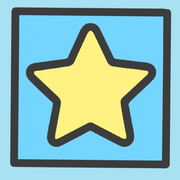
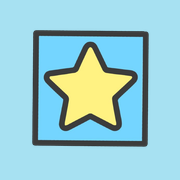
fix: mobile layout and button hierarchy
- keep the session drawer closed by default on mobile
- pad the pwa icons so the os mask does not crop the logo
- align header content and buttons to a single container edge
- make new character full width on mobile
- style log in as a secondary button so the primary action stands out
- remove the kaomoji from the header greeting

diff --git a/components/chat/ChatWindow.tsx b/components/chat/ChatWindow.tsx
@@ -3,7 +3,7 @@
 import { useEffect, useRef, useState } from "react";
 import MessageBubble from "@/components/chat/MessageBubble";
 import ChatInput from "@/components/chat/ChatInput";
-import SessionSidebar from "@/components/SessionSidebar";
+import SessionDrawer, { MOBILE_QUERY } from "@/components/SessionDrawer";
 import LoadingBar from "@/components/LoadingBar";
 import { deleteSession, getSessionsForCharacter, saveSession } from "@/lib/storage";
 import { isOfflineError, OFFLINE_MESSAGE } from "@/lib/network";
@@ -103,7 +103,15 @@ export default function ChatWindow({ character }: ChatWindowProps) {
   const [retryToken, setRetryToken] = useState(0);
   const [isLoading, setIsLoading] = useState(false);
   const [error, setError] = useState<string | null>(null);
-  const [sidebarOpen, setSidebarOpen] = useState(true);
+  // Closed by default on mobile (an overlay covering the chat is unwelcome
+  // on first load), open by default on desktop (its usual, permanent spot).
+  // ChatWindow only ever mounts client-side (its parent renders null until
+  // the character loads via an effect), so reading matchMedia here can't
+  // cause a hydration mismatch.
+  const [sidebarOpen, setSidebarOpen] = useState(() => {
+    if (typeof window === "undefined") return true;
+    return !window.matchMedia(MOBILE_QUERY).matches;
+  });
   const bottomRef = useRef<HTMLDivElement>(null);
   const abortControllerRef = useRef<AbortController | null>(null);
 
@@ -318,24 +326,22 @@ export default function ChatWindow({ character }: ChatWindowProps) {
 
   return (
     <div className="flex h-full min-h-0 flex-1">
-      {sidebarOpen && (
-        <div className="w-64 shrink-0">
-          <SessionSidebar
-            items={sortedSessions}
-            activeId={activeSessionId}
-            newLabel="New chat"
-            emptyLabel="No chats yet."
-            newDisabled={isNewSessionDisabled}
-            accent="star"
-            onSelect={handleSelectSession}
-            onNew={handleNewSession}
-            onRename={handleRenameSession}
-            onDelete={handleDeleteSession}
-          />
-        </div>
-      )}
+      <SessionDrawer
+        open={sidebarOpen}
+        onClose={() => setSidebarOpen(false)}
+        items={sortedSessions}
+        activeId={activeSessionId}
+        newLabel="New chat"
+        emptyLabel="No chats yet."
+        newDisabled={isNewSessionDisabled}
+        accent="star"
+        onSelect={handleSelectSession}
+        onNew={handleNewSession}
+        onRename={handleRenameSession}
+        onDelete={handleDeleteSession}
+      />
 
-      <div className="flex h-full min-h-0 flex-1 flex-col">
+      <div className="flex h-full min-h-0 min-w-0 flex-1 flex-col">
         <div className="flex items-center border-b border-line px-3 py-2">
           <button
             type="button"
@@ -352,7 +358,7 @@ export default function ChatWindow({ character }: ChatWindowProps) {
           </p>
         )}
 
-        <div className="flex-1 overflow-y-auto px-4 py-4">
+        <div className="min-h-0 flex-1 overflow-y-auto px-4 py-4">
           <div className="mx-auto flex w-full max-w-2xl flex-col gap-3">
             {messages.length === 0 && (
               <p className="text-center text-base text-muted">

diff --git a/components/study/StudyPanel.tsx b/components/study/StudyPanel.tsx
@@ -5,7 +5,7 @@ import Markdown from "react-markdown";
 import NotesUpload from "@/components/study/NotesUpload";
 import StudyToolbar from "@/components/study/StudyToolbar";
 import QuizView from "@/components/study/QuizView";
-import SessionSidebar from "@/components/SessionSidebar";
+import SessionDrawer, { MOBILE_QUERY } from "@/components/SessionDrawer";
 import LoadingBar from "@/components/LoadingBar";
 import { markdownComponents } from "@/components/MarkdownContent";
 import {
@@ -126,7 +126,15 @@ export default function StudyPanel({ character }: StudyPanelProps) {
   const [retryToken, setRetryToken] = useState(0);
   const [isLoading, setIsLoading] = useState(false);
   const [error, setError] = useState<string | null>(null);
-  const [sidebarOpen, setSidebarOpen] = useState(true);
+  // Closed by default on mobile (an overlay covering the panel is unwelcome
+  // on first load), open by default on desktop (its usual, permanent spot).
+  // StudyPanel only ever mounts client-side (its parent renders null until
+  // the character loads via an effect), so reading matchMedia here can't
+  // cause a hydration mismatch.
+  const [sidebarOpen, setSidebarOpen] = useState(() => {
+    if (typeof window === "undefined") return true;
+    return !window.matchMedia(MOBILE_QUERY).matches;
+  });
   const notesSaveTimeout = useRef<ReturnType<typeof setTimeout> | null>(null);
   const abortControllerRef = useRef<AbortController | null>(null);
   // Per-session save queue. Two saves to the same session (e.g. the immediate
@@ -446,24 +454,22 @@ export default function StudyPanel({ character }: StudyPanelProps) {
 
   return (
     <div className="flex h-full min-h-0 flex-1">
-      {sidebarOpen && (
-        <div className="w-64 shrink-0">
-          <SessionSidebar
-            items={sortedSessions}
-            activeId={activeSessionId}
-            newLabel="New study"
-            emptyLabel="No study sessions yet."
-            newDisabled={isNewSessionDisabled}
-            accent="sky"
-            onSelect={handleSelectSession}
-            onNew={handleNewSession}
-            onRename={handleRenameSession}
-            onDelete={handleDeleteSession}
-          />
-        </div>
-      )}
+      <SessionDrawer
+        open={sidebarOpen}
+        onClose={() => setSidebarOpen(false)}
+        items={sortedSessions}
+        activeId={activeSessionId}
+        newLabel="New study"
+        emptyLabel="No study sessions yet."
+        newDisabled={isNewSessionDisabled}
+        accent="sky"
+        onSelect={handleSelectSession}
+        onNew={handleNewSession}
+        onRename={handleRenameSession}
+        onDelete={handleDeleteSession}
+      />
 
-      <div className="flex h-full min-h-0 flex-1 flex-col">
+      <div className="flex h-full min-h-0 min-w-0 flex-1 flex-col">
         <div className="flex items-center border-b border-line px-3 py-2">
           <button
             type="button"
@@ -480,7 +486,7 @@ export default function StudyPanel({ character }: StudyPanelProps) {
           </p>
         )}
 
-        <div className="flex-1 overflow-y-auto px-4 py-8">
+        <div className="min-h-0 flex-1 overflow-y-auto px-4 py-8 pb-[calc(2rem+env(safe-area-inset-bottom))]">
           <div className="mx-auto flex w-full max-w-2xl flex-col gap-6">
             <NotesUpload
               sessionId={activeSessionId}

diff --git a/components/SessionDrawer.tsx b/components/SessionDrawer.tsx
@@ -1,0 +1,34 @@
+"use client";
+
+import SessionSidebar, { type SessionSidebarProps } from "@/components/SessionSidebar";
+
+interface SessionDrawerProps extends SessionSidebarProps {
+  open: boolean;
+  onClose: () => void;
+}
+
+export const MOBILE_QUERY = "(max-width: 639px)";
+
+// Below the sm breakpoint there isn't room for the sidebar to sit alongside
+// the chat/study column without squeezing it off-screen, so it renders as a
+// fixed overlay with a backdrop instead — same component, same props, just a
+// different container. From sm up it's the same static column it always was.
+export default function SessionDrawer({ open, onClose, onSelect, ...sidebarProps }: SessionDrawerProps) {
+  if (!open) return null;
+
+  function handleSelect(id: string) {
+    onSelect(id);
+    if (typeof window !== "undefined" && window.matchMedia(MOBILE_QUERY).matches) {
+      onClose();
+    }
+  }
+
+  return (
+    <>
+      <div className="fixed inset-0 z-30 bg-ink/40 sm:hidden" onClick={onClose} aria-hidden="true" />
+      <div className="fixed inset-y-0 left-0 z-40 w-72 max-w-[80vw] pt-[env(safe-area-inset-top)] pb-[env(safe-area-inset-bottom)] sm:static sm:z-auto sm:w-64 sm:max-w-none sm:shrink-0 sm:pt-0 sm:pb-0">
+        <SessionSidebar {...sidebarProps} onSelect={handleSelect} />
+      </div>
+    </>
+  );
+}

diff --git a/app/page.tsx b/app/page.tsx
@@ -122,16 +122,16 @@ export default function Home() {
           </h1>
           <p className="mt-2 text-lg text-muted">Your character, your story</p>
         </div>
-        <div className="flex items-center gap-3">
+        <div className="flex w-full flex-col gap-4 sm:w-auto sm:flex-row sm:flex-wrap sm:items-center">
           {!authLoading && (
             <>
               {user ? (
-                <div className="flex items-center gap-3">
+                <div className="flex w-full items-center justify-between gap-3 sm:w-auto sm:justify-start">
                   <span
                     className="min-w-0 max-w-[240px] truncate text-base text-muted"
                     title={displayName}
                   >
-                    Hi {truncateName(displayName)}! (ﾉ≧∀≦)ﾉ
+                    Hi {truncateName(displayName)}!
                   </span>
                   <button
                     type="button"
@@ -144,7 +144,7 @@ export default function Home() {
               ) : (
                 <Link
                   href="/login"
-                  className="rounded-full bg-ink px-5 py-2.5 text-base font-medium text-paper transition-opacity hover:opacity-90"
+                  className="w-full rounded-full border-2 border-ink bg-paper px-5 py-2.5 text-center text-base font-medium text-ink transition-colors hover:bg-line/40 sm:w-auto"
                 >
                   Log in
                 </Link>
@@ -154,7 +154,7 @@ export default function Home() {
           {!charactersLoading && characters.length > 0 && (
             <Link
               href="/create"
-              className="rounded-full bg-ink px-5 py-2.5 text-base font-medium text-paper transition-opacity hover:opacity-90"
+              className="w-full shrink-0 rounded-full bg-ink px-5 py-2.5 text-center text-base font-medium text-paper transition-opacity hover:opacity-90 sm:w-auto"
             >
               New Character
             </Link>
@@ -177,7 +177,7 @@ export default function Home() {
           <div className="flex shrink-0 items-center gap-4">
             <Link
               href="/login"
-              className="rounded-full bg-sky px-4 py-2 text-sm font-medium text-ink transition-opacity hover:opacity-90"
+              className="rounded-full border-2 border-ink bg-paper px-4 py-2 text-sm font-medium text-ink transition-colors hover:bg-line/40"
             >
               Log in
             </Link>

diff --git a/app/chat/[characterId]/page.tsx b/app/chat/[characterId]/page.tsx
@@ -63,15 +63,15 @@ export default function CharacterPage() {
 
   return (
     <main className="flex h-screen flex-col bg-paper">
-      <header className="flex items-center gap-4 border-b border-line px-4 py-3">
+      <header className="flex items-center gap-2 border-b border-line px-4 py-3 pt-[calc(0.75rem+env(safe-area-inset-top))] sm:gap-4">
         <Link
           href="/"
-          className="text-base font-medium text-muted underline underline-offset-4 transition-colors hover:text-ink"
+          className="shrink-0 text-base font-medium text-muted underline underline-offset-4 transition-colors hover:text-ink"
         >
           ← Back
         </Link>
-        <h1 className="text-xl font-bold text-ink">{character.name}</h1>
-        <div className="ml-auto">
+        <h1 className="min-w-0 flex-1 truncate text-xl font-bold text-ink">{character.name}</h1>
+        <div className="shrink-0">
           <ModeToggle mode={mode} onChange={setMode} />
         </div>
       </header>

diff --git a/components/SessionSidebar.tsx b/components/SessionSidebar.tsx
@@ -7,7 +7,7 @@ interface SessionSidebarItem {
   title: string;
 }
 
-interface SessionSidebarProps {
+export interface SessionSidebarProps {
   items: SessionSidebarItem[];
   activeId: string;
   newLabel: string;

diff --git a/components/chat/ChatInput.tsx b/components/chat/ChatInput.tsx
@@ -26,7 +26,7 @@ export default function ChatInput({ onSend, onStop, isLoading }: ChatInputProps)
   }
 
   return (
-    <div className="flex items-end gap-2 border-t border-line p-3">
+    <div className="flex items-end gap-2 border-t border-line p-3 pb-[calc(0.75rem+env(safe-area-inset-bottom))]">
       <textarea
         rows={1}
         value={value}

diff --git a/app/layout.tsx b/app/layout.tsx
@@ -16,6 +16,7 @@ export const metadata: Metadata = {
 
 export const viewport: Viewport = {
   themeColor: "#a7e1f2",
+  viewportFit: "cover",
 };
 
 export default function RootLayout({